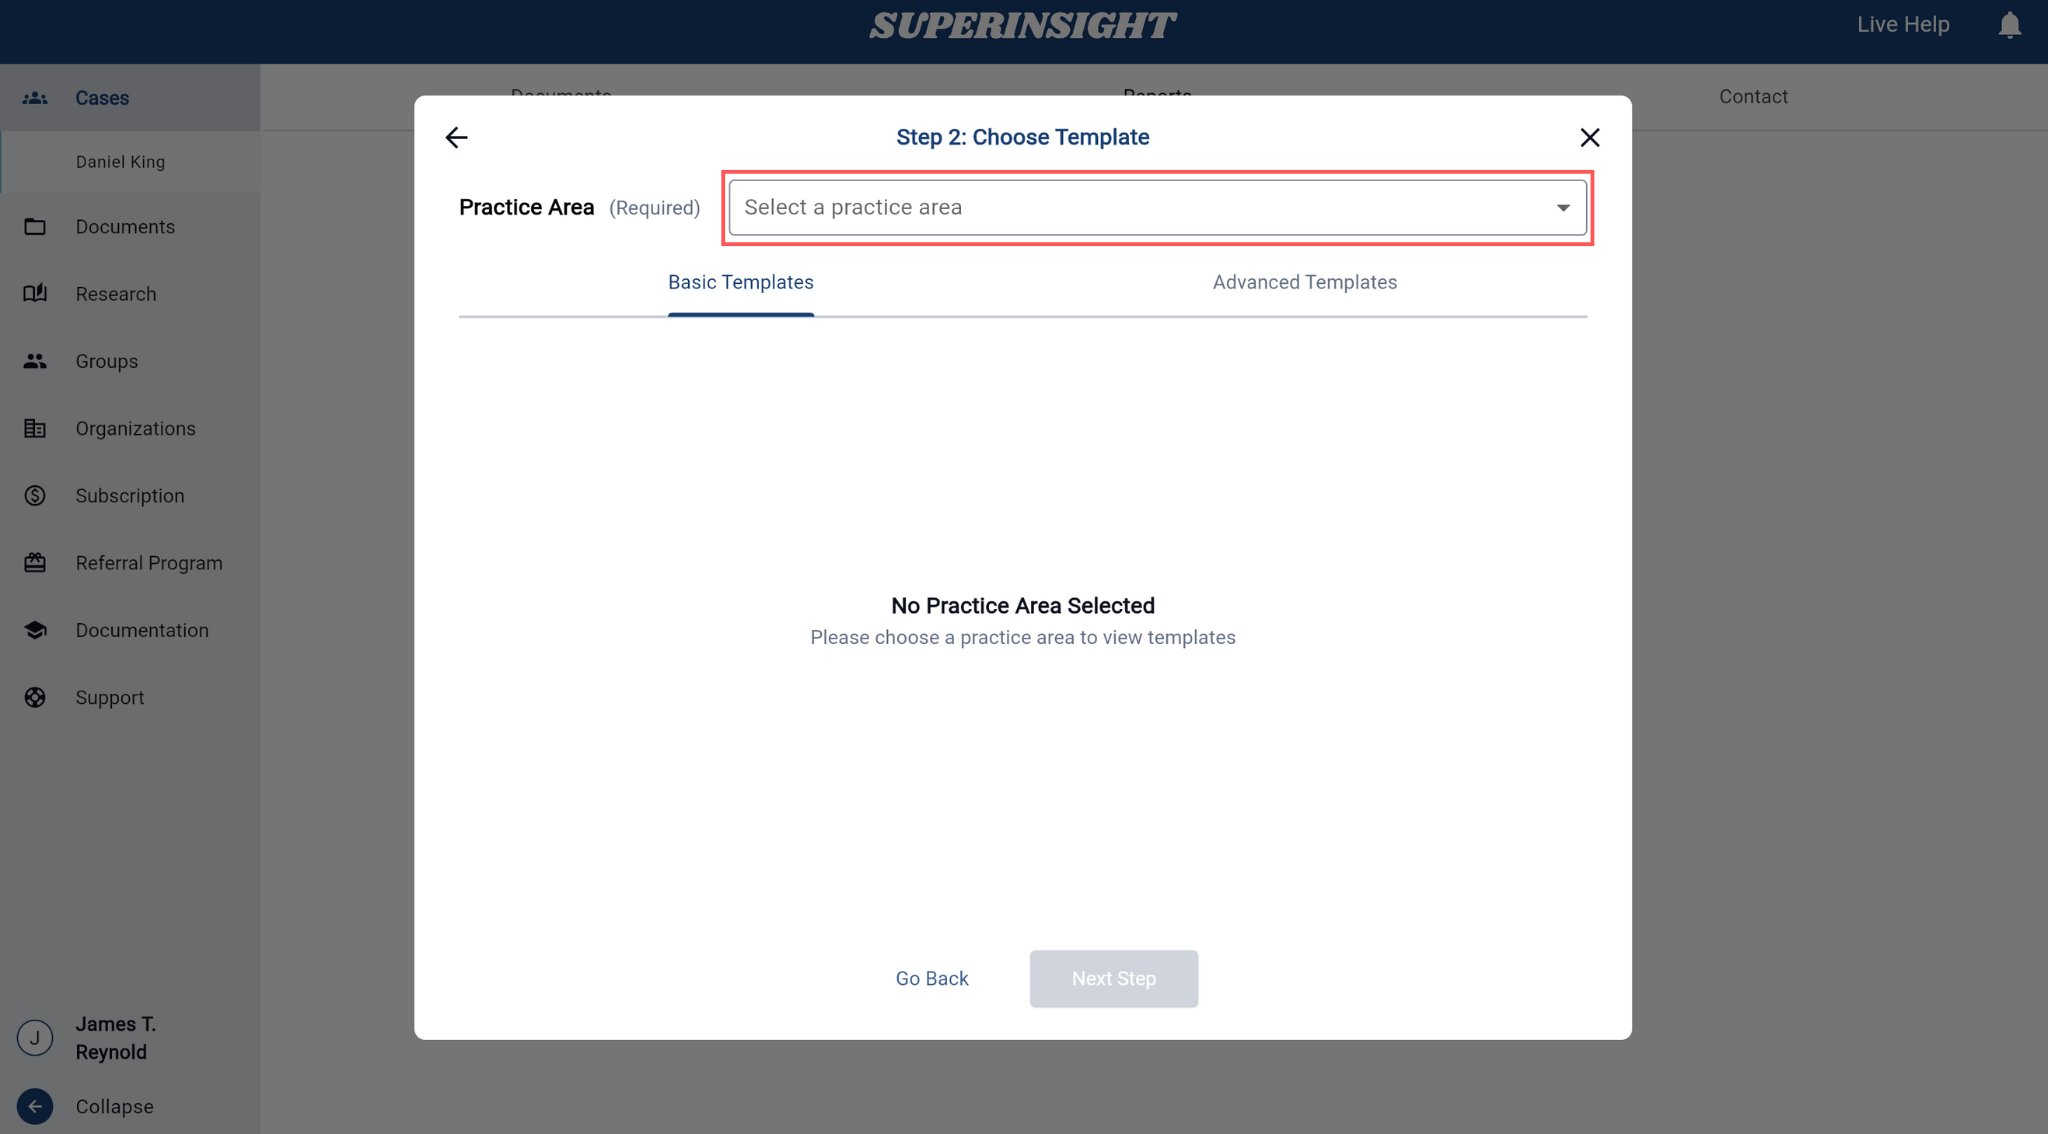
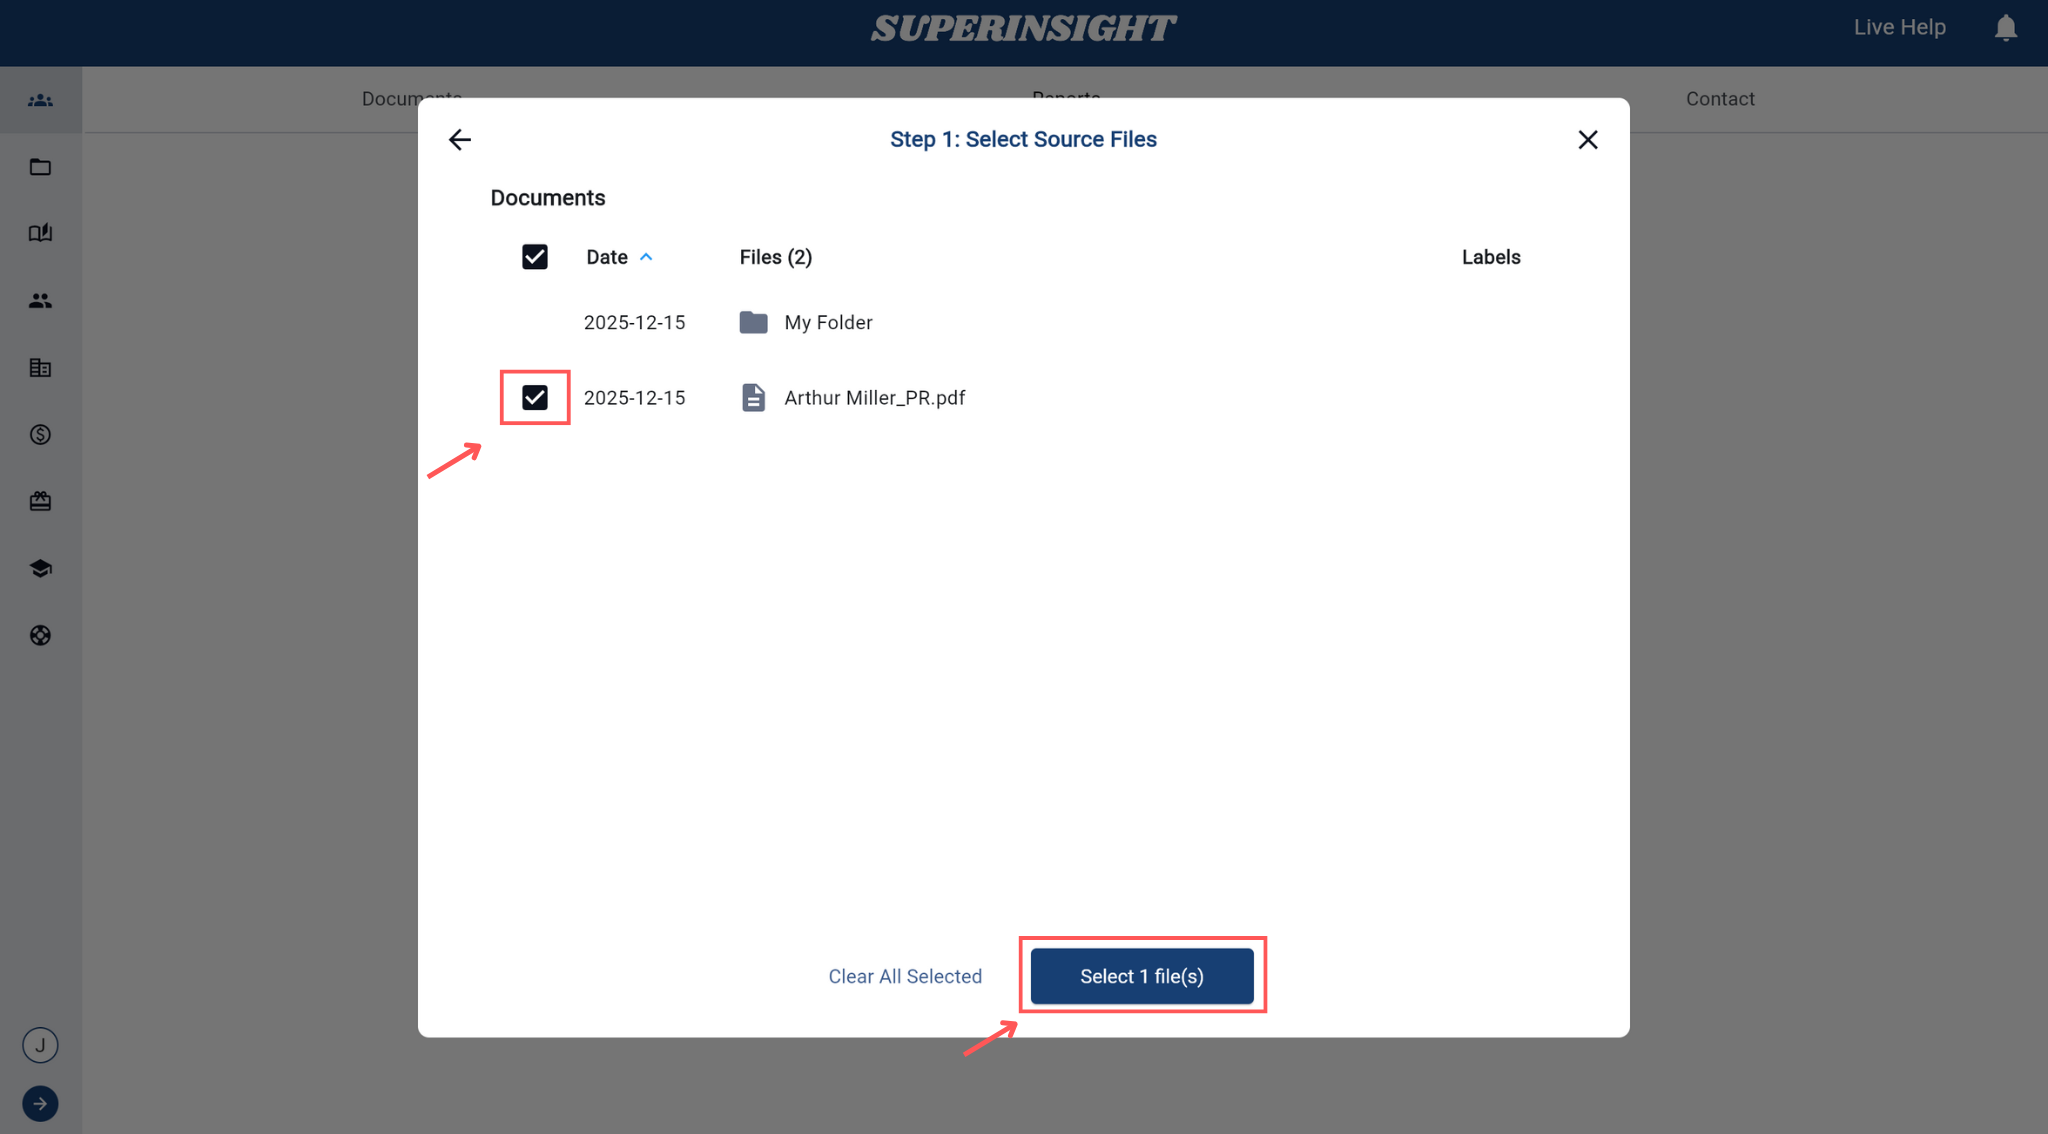
Hide Referral Program

diff --git a/docs/guide/case-contact.md b/docs/guide/case-contact.md
@@ -217,31 +217,27 @@ You can upload file to your case folders for storage, review, or building a repo
 ### How to Build a Report  
 <!-- These are step-by-step instructions -->
 
-This section walks users through the full report generation process in four steps.
+This section walks users through the full report generation process.
 
-To begin building a report, go to any **Case**, then click the **Reports** tab at the top.
+#### Click Start Building
+To begin building a report, go to any **Case**, then click the **Reports** tab at the top and click the **Build Report** button to start.
 
-![Build Report Start](../assets/images/tutorial/case-build-report-start.png)
-#### Step 1: Open the Report Builder  
-- Navigate to the **Reports** tab inside any case.  
-- Click the **Build Report** button to start.
+![Start Building](../assets/images/tutorial/case-build-report-1.png)
 
-![Step 1](../assets/images/tutorial/case-build-report-1.png)  
-
-#### Step 2: Select Source Files  
+#### Step 1: Select Source Files  
 - Choose which files you'd like to include in the report.  
 - You can filter by labels or use folders and may select one or multiple documents.
 
-![Step 2](../assets/images/tutorial/case-build-report-3.png)
+![Step 1](../assets/images/tutorial/case-build-report-2.png)
 
-#### Step 3: Select Report Type  
+#### Step 2: Choose Template  
 - Choose your **Practice Area** (e.g., Medical Service or Personal Injury etc...)
 - Choose your **Report Type** (e.g., Medical Chronology, Basic Summary, or Advanced Templates).
 Each option will display how many credits are required.
 
-![Step 3](../assets/images/tutorial/case-build-report-2.png)
+![Step 2](../assets/images/tutorial/case-build-report-3.png)
 
-#### Step 4: Build Report  
+#### Step 3: Build Report  
 Confirm your report detail:
 
 • Practice Area
@@ -252,9 +248,9 @@ Confirm your report detail:
 
 • The Number of Credits Required
 
-And build the report click **Build** to generate your report.  
+And click **Build** to generate your report.  
 
-![Step 4](../assets/images/tutorial/case-build-report-4.png)
+![Step 3](../assets/images/tutorial/case-build-report-4.png)
 
 The report status will show as `In Progress` in the Reports tab.  
 Processing may take a few minutes.

diff --git a/docs/guide/user-profile.md b/docs/guide/user-profile.md
@@ -1,0 +1,35 @@
+# User Profile
+
+This section explains how to view and manage your user profile settings in Superinsight.
+
+## Accessing Your Profile
+
+To access your user profile:
+
+1. Click on your **profile icon** in the top right corner of the application.
+2. Select **Profile** from the dropdown menu.
+
+## Profile Settings
+
+Your user profile contains the following information:
+
+### Personal Information
+
+- **Name**: Your display name in the application
+- **Email**: Your registered email address
+
+### Account Settings
+
+- **Password**: Change your account password
+- **Notification Preferences**: Manage email and in-app notifications
+
+## Updating Your Profile
+
+To update your profile information:
+
+1. Navigate to your profile settings.
+2. Click **Edit** next to the section you want to update.
+3. Make your changes.
+4. Click **Save** to confirm your updates.
+
+If you need further assistance with your profile settings, please contact our **Live Help** support.

diff --git a/docs/guide/index.md b/docs/guide/index.md
@@ -13,7 +13,6 @@ Learn more about Superinsight with the following How To Guide.
 | [Manage Groups](groups.md)                   | Create and manage team groups       |
 | [Manage Organizations](organizations.md)     | Manage organization settings and members|
 | [Manage Subscription](subscription.md)       | View and manage your subscription plan|
-| [Referral Program](referral.md)              | Invite others and earn rewards      |
 | [Support](support.md)                        | Get help and contact support team  |
 
 
